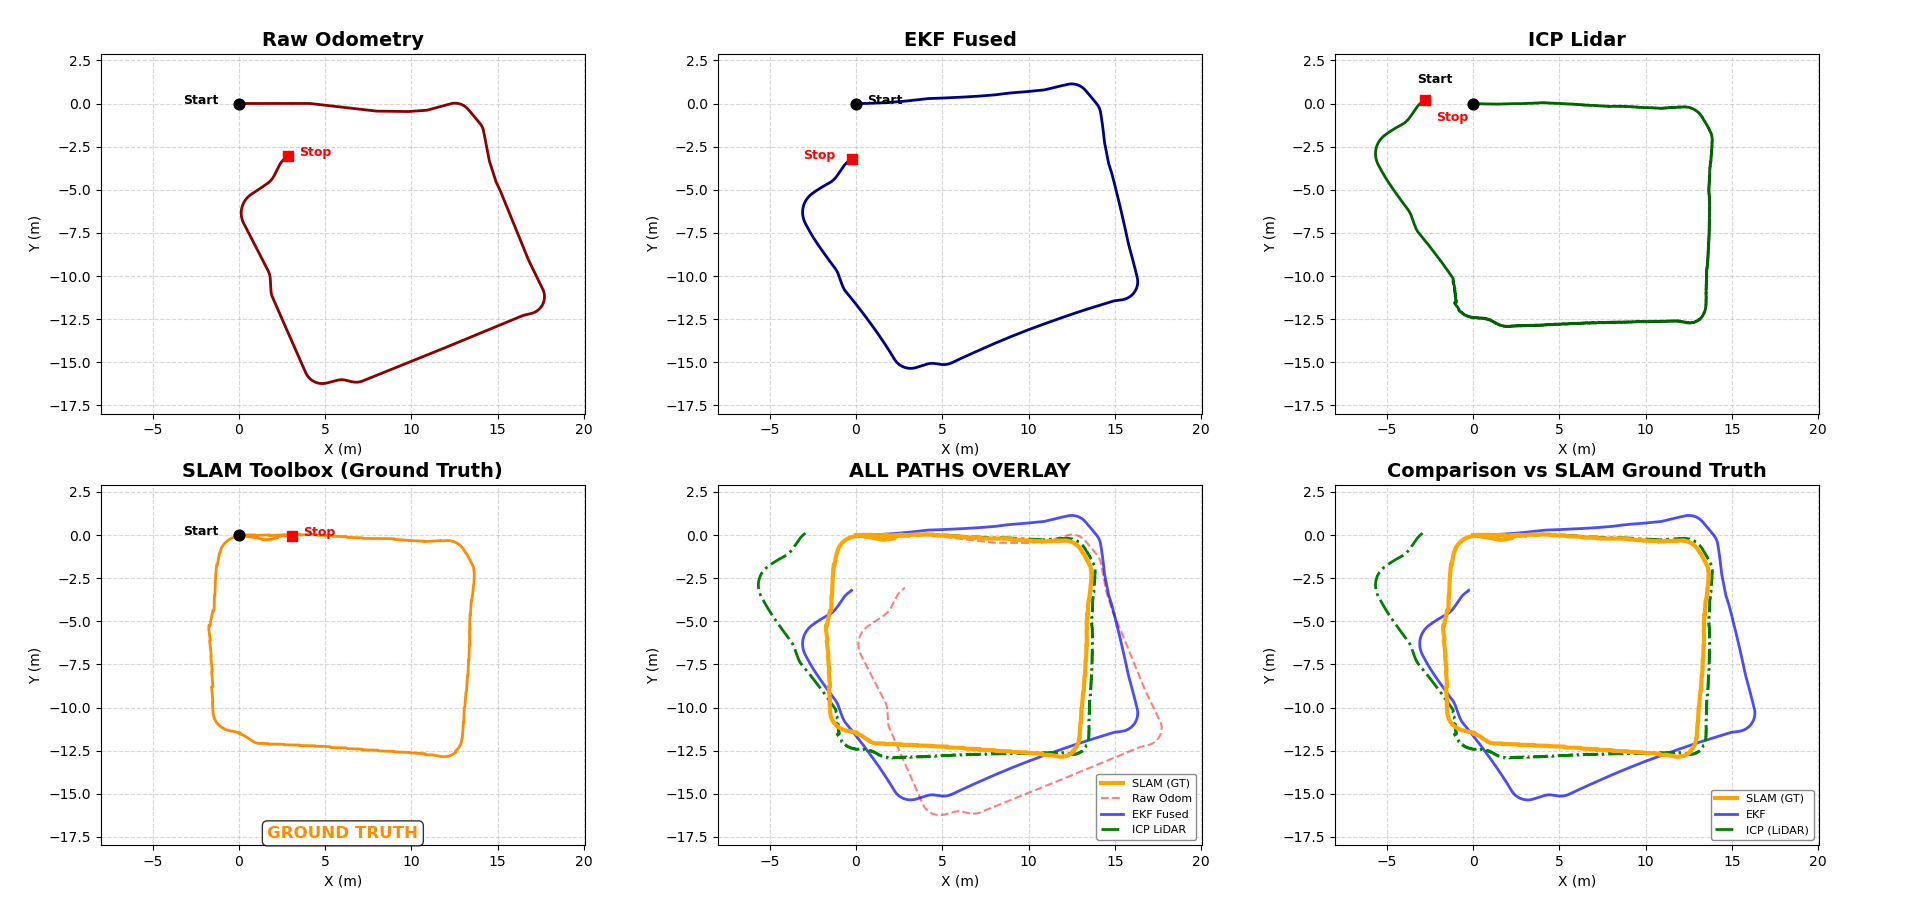
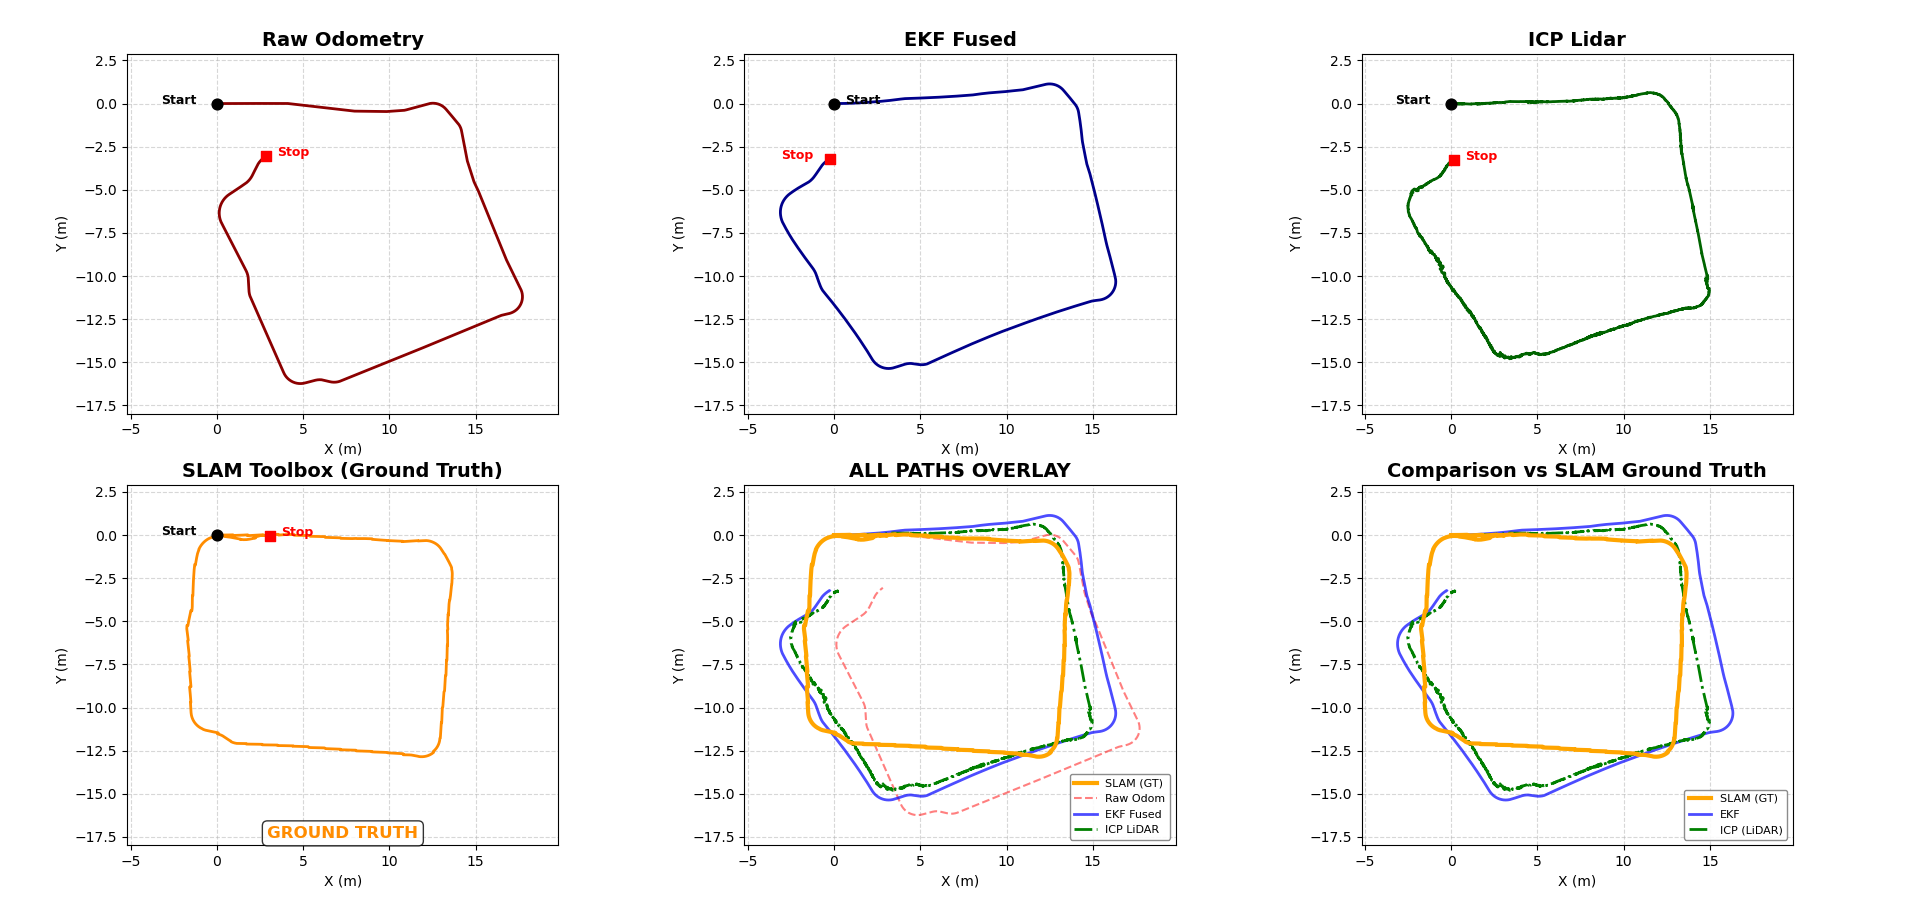
Lab1

diff --git a/README.md b/README.md
@@ -589,60 +589,98 @@ $$\mathbf{x} = [x, y, \theta, b_{gyro}]^T \quad \text{(4-state EKF)}$$
 
 ## Conclusion
 
-### Trajectory Comparison Across Methods
+### Progressive Improvements
 
-The following table compares the mean error from each odometry method across all sequences.
+#### 1. Wheel Odometry → EKF (IMU Fusion)
 
-#### Method Performance Summary
+- **Heading correction:** IMU provides absolute orientation to correct encoder drift
+- **Expected improvement:** Heading deviation should decrease significantly
+- **Actual result:** EKF **failed** in 2/3 sequences due to IMU gyroscope bias
+- **What remains:** Position (x, y) still drifts without independent position measurements
+- **Cost:** Minimal computation overhead
 
-| Sequence | Method       | Mean Error | Performance vs Raw |
-| :------: | ------------ | :--------: | :----------------: |
-|  **00**  | Raw Odometry |  3.714 m   |      Baseline      |
-|          | EKF Fused    |  3.316 m   |      +10.7% ✅      |
-|          | ICP LiDAR    |  1.268 m   |      +65.9% ✅      |
-|  **01**  | Raw Odometry |  3.181 m   |      Baseline      |
-|          | EKF Fused    |  4.419 m   |      -38.9% ❌      |
-|          | ICP LiDAR    |  3.873 m   |      -21.8% ❌      |
-|  **02**  | Raw Odometry |  3.298 m   |      Baseline      |
-|          | EKF Fused    |  5.733 m   |      -73.8% ❌      |
-|          | ICP LiDAR    |  1.068 m   |      +67.6% ✅      |
+#### 2. EKF → ICP (LiDAR-Based Refinement)
 
-### Progressive Improvement Analysis
+- **Paradigm shift:** From dead reckoning to environment-based localization
+- **Mechanism:** Geometric scan matching provides position and heading corrections
+- **Improvement:** Best performer in Seq00 (1.268 m) and Seq02 (1.068 m)
+- **What remains:** Long-term drift accumulates without loop closure
+- **Cost:** Real-time scan matching
 
-Each method builds upon the previous one, adding new capabilities:
+#### 3. ICP → SLAM (Global Optimization + Loop Closure)
 
-| Method         | Sensors Used          | What It Corrects | Limitation          |
-| -------------- | --------------------- | ---------------- | ------------------- |
-| Wheel Odometry | Encoder only          | —                | Drift in x, y, θ    |
-| EKF Fusion     | Encoder + IMU         | θ (heading)      | x, y still drift    |
-| ICP            | Encoder + IMU + LiDAR | x, y, θ          | Long-term drift     |
-| SLAM           | All + Loop Closure    | Global pose      | Highest computation |
+- **Paradigm shift:** From local scan matching to global pose-graph optimization
+- **Mechanism:** Backend solver minimizes cumulative pose-graph errors, loop closure adds global constraints
+- **Improvement:** Globally consistent maps, used as ground truth
+- **Trade-off:** Higher computational cost
+- **Cost:** Backend optimization overhead, but maintains real-time on modern hardware
 
-| Transition | What Improves                   | What Remains                |
-| ---------- | ------------------------------- | --------------------------- |
-| Raw → EKF  | Heading drift corrected by IMU  | Position (x,y) still drifts |
-| EKF → ICP  | Position corrected by LiDAR     | Long-term drift accumulates |
-| ICP → SLAM | Loop closure fixes global drift | Highest computation cost    |
+### Key Results
+
+#### Part 1 - EKF Odometry Fusion
+
+| Metric          |  Seq 00  |    Seq 01    |    Seq 02    |
+| --------------- | :------: | :----------: | :----------: |
+| Mean Error      | 3.316 m  |   4.419 m    |   5.733 m    |
+| vs Raw Odometry | +10.7% ✅ |   -38.9% ❌   |   -73.8% ❌   |
+| Status          | Improved | **Degraded** | **Degraded** |
+
+**Limitation:** IMU gyroscope bias causes error accumulation. Current 3-state EKF lacks bias estimation.
+
+#### Part 2 - ICP Odometry Refinement
+
+| Metric          |  Seq 00  |  Seq 01  |  Seq 02  |
+| --------------- | :------: | :------: | :------: |
+| Mean Error      | 1.268 m  | 3.873 m  | 1.068 m  |
+| vs Raw Odometry | +65.9% ✅ | -21.8% ❌ | +67.6% ✅ |
+| Status          | **Best** | Degraded | **Best** |
+
+**Limitation:** Sharp turns (Seq01) cause scan distortion, degrading performance.
+
+#### Part 3 - SLAM with slam_toolbox
+
+- Used as **ground truth** for error calculation
+- Loop closure provides globally consistent trajectories
+- Essential for long-duration navigation
 
 ### Key Findings
 
-1. **EKF sensor fusion can degrade performance if not properly tuned**
-   - Failed in 2/3 sequences (Seq01: -38.9%, Seq02: -73.8%)
-   - IMU gyroscope bias is the primary cause
-   - Current implementation lacks bias estimation
+1. **Sensor fusion effectiveness:** EKF with low-cost IMU can **degrade** performance if gyroscope bias is not estimated. Failed in 2/3 sequences with up to 73.8% worse accuracy than raw odometry.
 
-2. **ICP provides the most robust odometry refinement**
-   - Best performer in Seq00 (1.268 m) and Seq02 (1.068 m)
-   - Consistent across different motion profiles
-   - Environmental features provide reliable constraints
+2. **Environment-based localization:** ICP provides the most consistent improvement, achieving 65-68% error reduction in feature-rich environments (Seq00, Seq02).
 
-3. **Raw odometry can outperform sensor fusion**
-   - In Seq01, Raw (3.181 m) beat both EKF (4.419 m) and ICP (3.873 m)
-   - Predictable drift is preferable to biased sensor fusion
+3. **Motion-dependent performance:** Sharp turns (Seq01) challenge all methods. Raw odometry (3.181 m) outperformed both EKF (4.419 m) and ICP (3.873 m).
 
-4. **SLAM remains the gold standard**
-   - Loop closure helps us get a path that is very close to our actual running path
-   - Essential for long-duration navigation
+4. **Coverage trade-off:** ICP builds dense local maps for high coverage, while SLAM selectively processes keyframes for global consistency.
+
+### Comparison Summary
+
+#### Accuracy
+
+| Method             | Description                                                      |
+| ------------------ | ---------------------------------------------------------------- |
+| **Wheel Odometry** | Baseline with unbounded drift (3.18-3.71 m mean error)           |
+| **EKF**            | Should improve heading, but failed due to IMU bias (3.32-5.73 m) |
+| **ICP**            | Best accuracy in 2/3 sequences (1.07-3.87 m)                     |
+| **SLAM**           | Ground truth with globally consistent maps                       |
+
+#### Drift
+
+| Method             | Drift Behavior                                      |
+| ------------------ | --------------------------------------------------- |
+| **Wheel Odometry** | Unbounded drift in position and heading             |
+| **EKF**            | Reduces heading drift only (when IMU is calibrated) |
+| **ICP**            | Corrects both position and heading using LiDAR      |
+| **SLAM**           | Minimizes cumulative drift through loop closure     |
+
+#### Robustness
+
+| Method             | Robustness                                                    |
+| ------------------ | ------------------------------------------------------------- |
+| **Wheel Odometry** | Predictable but unbounded drift                               |
+| **EKF**            | Sensitive to IMU bias and motion profile                      |
+| **ICP**            | Robust in feature-rich environments, sensitive to sharp turns |
+| **SLAM**           | Most robust due to global optimization and loop closure       |
 
 ### Why EKF Failed — Summary
 
@@ -677,6 +715,17 @@ Each method builds upon the previous one, adding new capabilities:
 | EKF          | θ only   | Reduced θ drift | Low         | When IMU is calibrated   |
 | ICP          | x, y, θ  | Bounded local   | Medium      | Feature-rich environment |
 | SLAM         | Global   | Corrected       | Highest     | Long-duration navigation |
+
+### Final Remarks
+
+The experiments demonstrate that robust indoor localization requires progressive capability layers: IMU fusion corrects heading (when properly calibrated), LiDAR scan matching enables geometric correction, and pose-graph optimization provides global consistency. 
+
+**Critical finding:** Sensor fusion can **degrade** performance if not properly tuned. In this experiment, EKF with uncalibrated low-cost IMU performed worse than raw wheel odometry in 2/3 sequences. This highlights the importance of:
+1. IMU bias estimation and compensation
+2. Proper covariance tuning (Q, R matrices)
+3. Always validating sensor fusion against baseline methods
+
+Each method introduces specific trade-offs in computational cost, accuracy, and robustness that must match application requirements.
 
 ---
 
